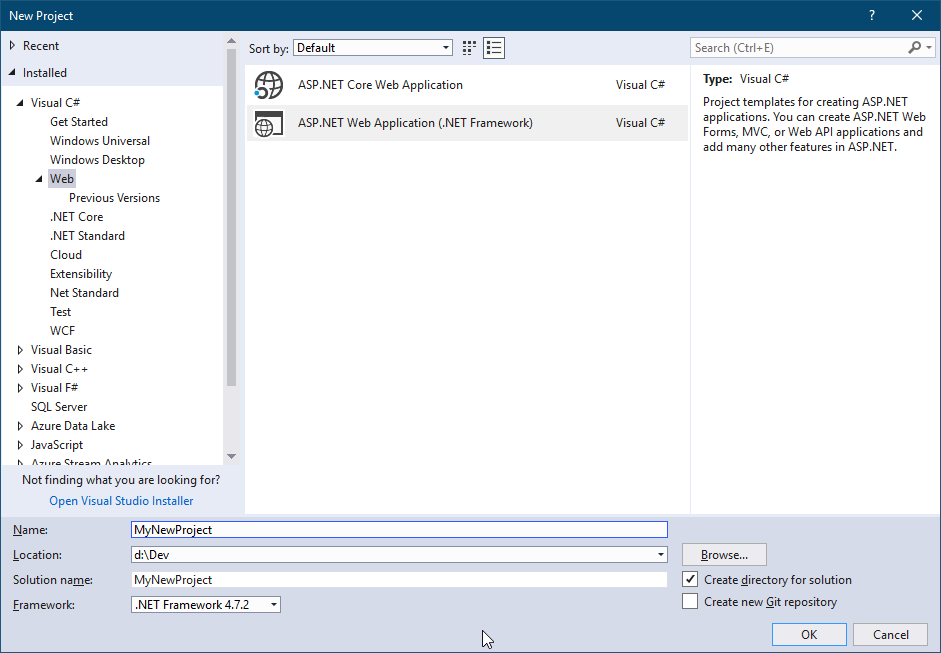
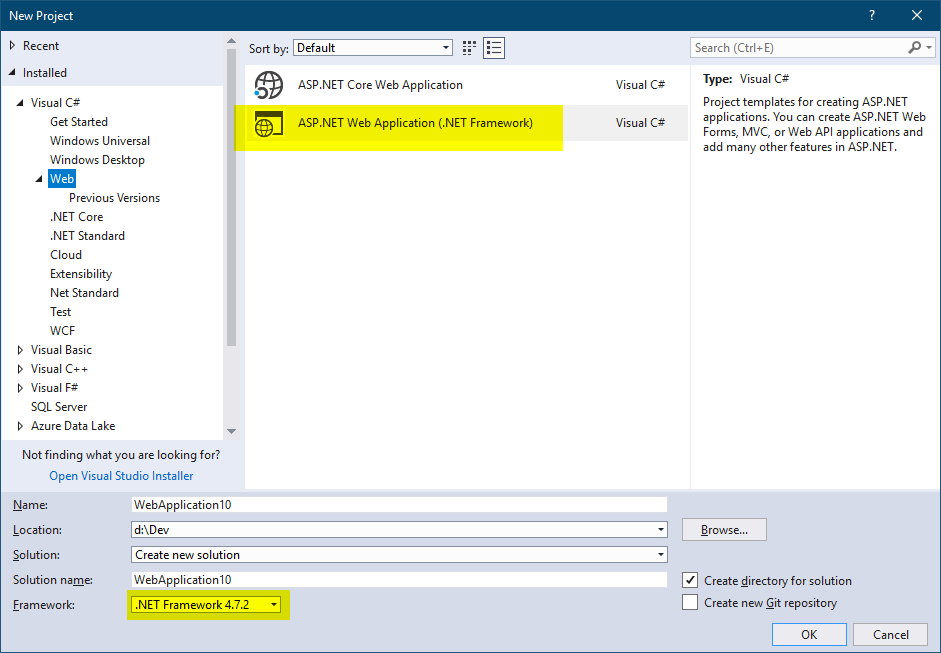
Highlight VS version and .NET version

diff --git a/Getting-Started/Setup/Install/install-umbraco-with-nuget.md b/Getting-Started/Setup/Install/install-umbraco-with-nuget.md
@@ -8,14 +8,18 @@ _Follow these steps to do a full install of Umbraco with NuGet._
 
 ## Abbreviated version
 - You will get the best results if you install Umbraco in a **blank** C# web application Visual Studio project
-- You will need Visual Studio 2017 updated to version 15.9.6 at least
-- Go to File > New Project > `ASP.NET Web application (.NET Framework)` using **.NET Framework 4.7.2** (important)
+- You will need Visual Studio 2017 updated to version **15.9.6 at least**
+- Go to `File` > `New Project` > `ASP.NET Web application (.NET Framework)` using **.NET Framework 4.7.2** (important)
 - In the next screen choose an **Empty** project template and don't enable any of the checkboxes, leave them all unselected
 - Either use the NuGet Package explorer to install Umbraco 8 or the Package manager console (the command is: `Install-Package UmbracoCms`)
 - Use CTRL+F5 to run the project and start the Umbraco installer
 
 ## New solution
 To install Umbraco we first need a Visual Studio solution.
+
+**Note:** Check that your Visual Studio version is at least 15.9.6 (`Help` > `About Microsoft Visual Studio`), lower versions do not install the correct NuGet dependencies.
+
+![](images/NuGet/visual-studio-version-v8.png)
 
 ### Visual Studio 2017
 Go to **File > New Project** and pick an ASP.NET Web Application. 
